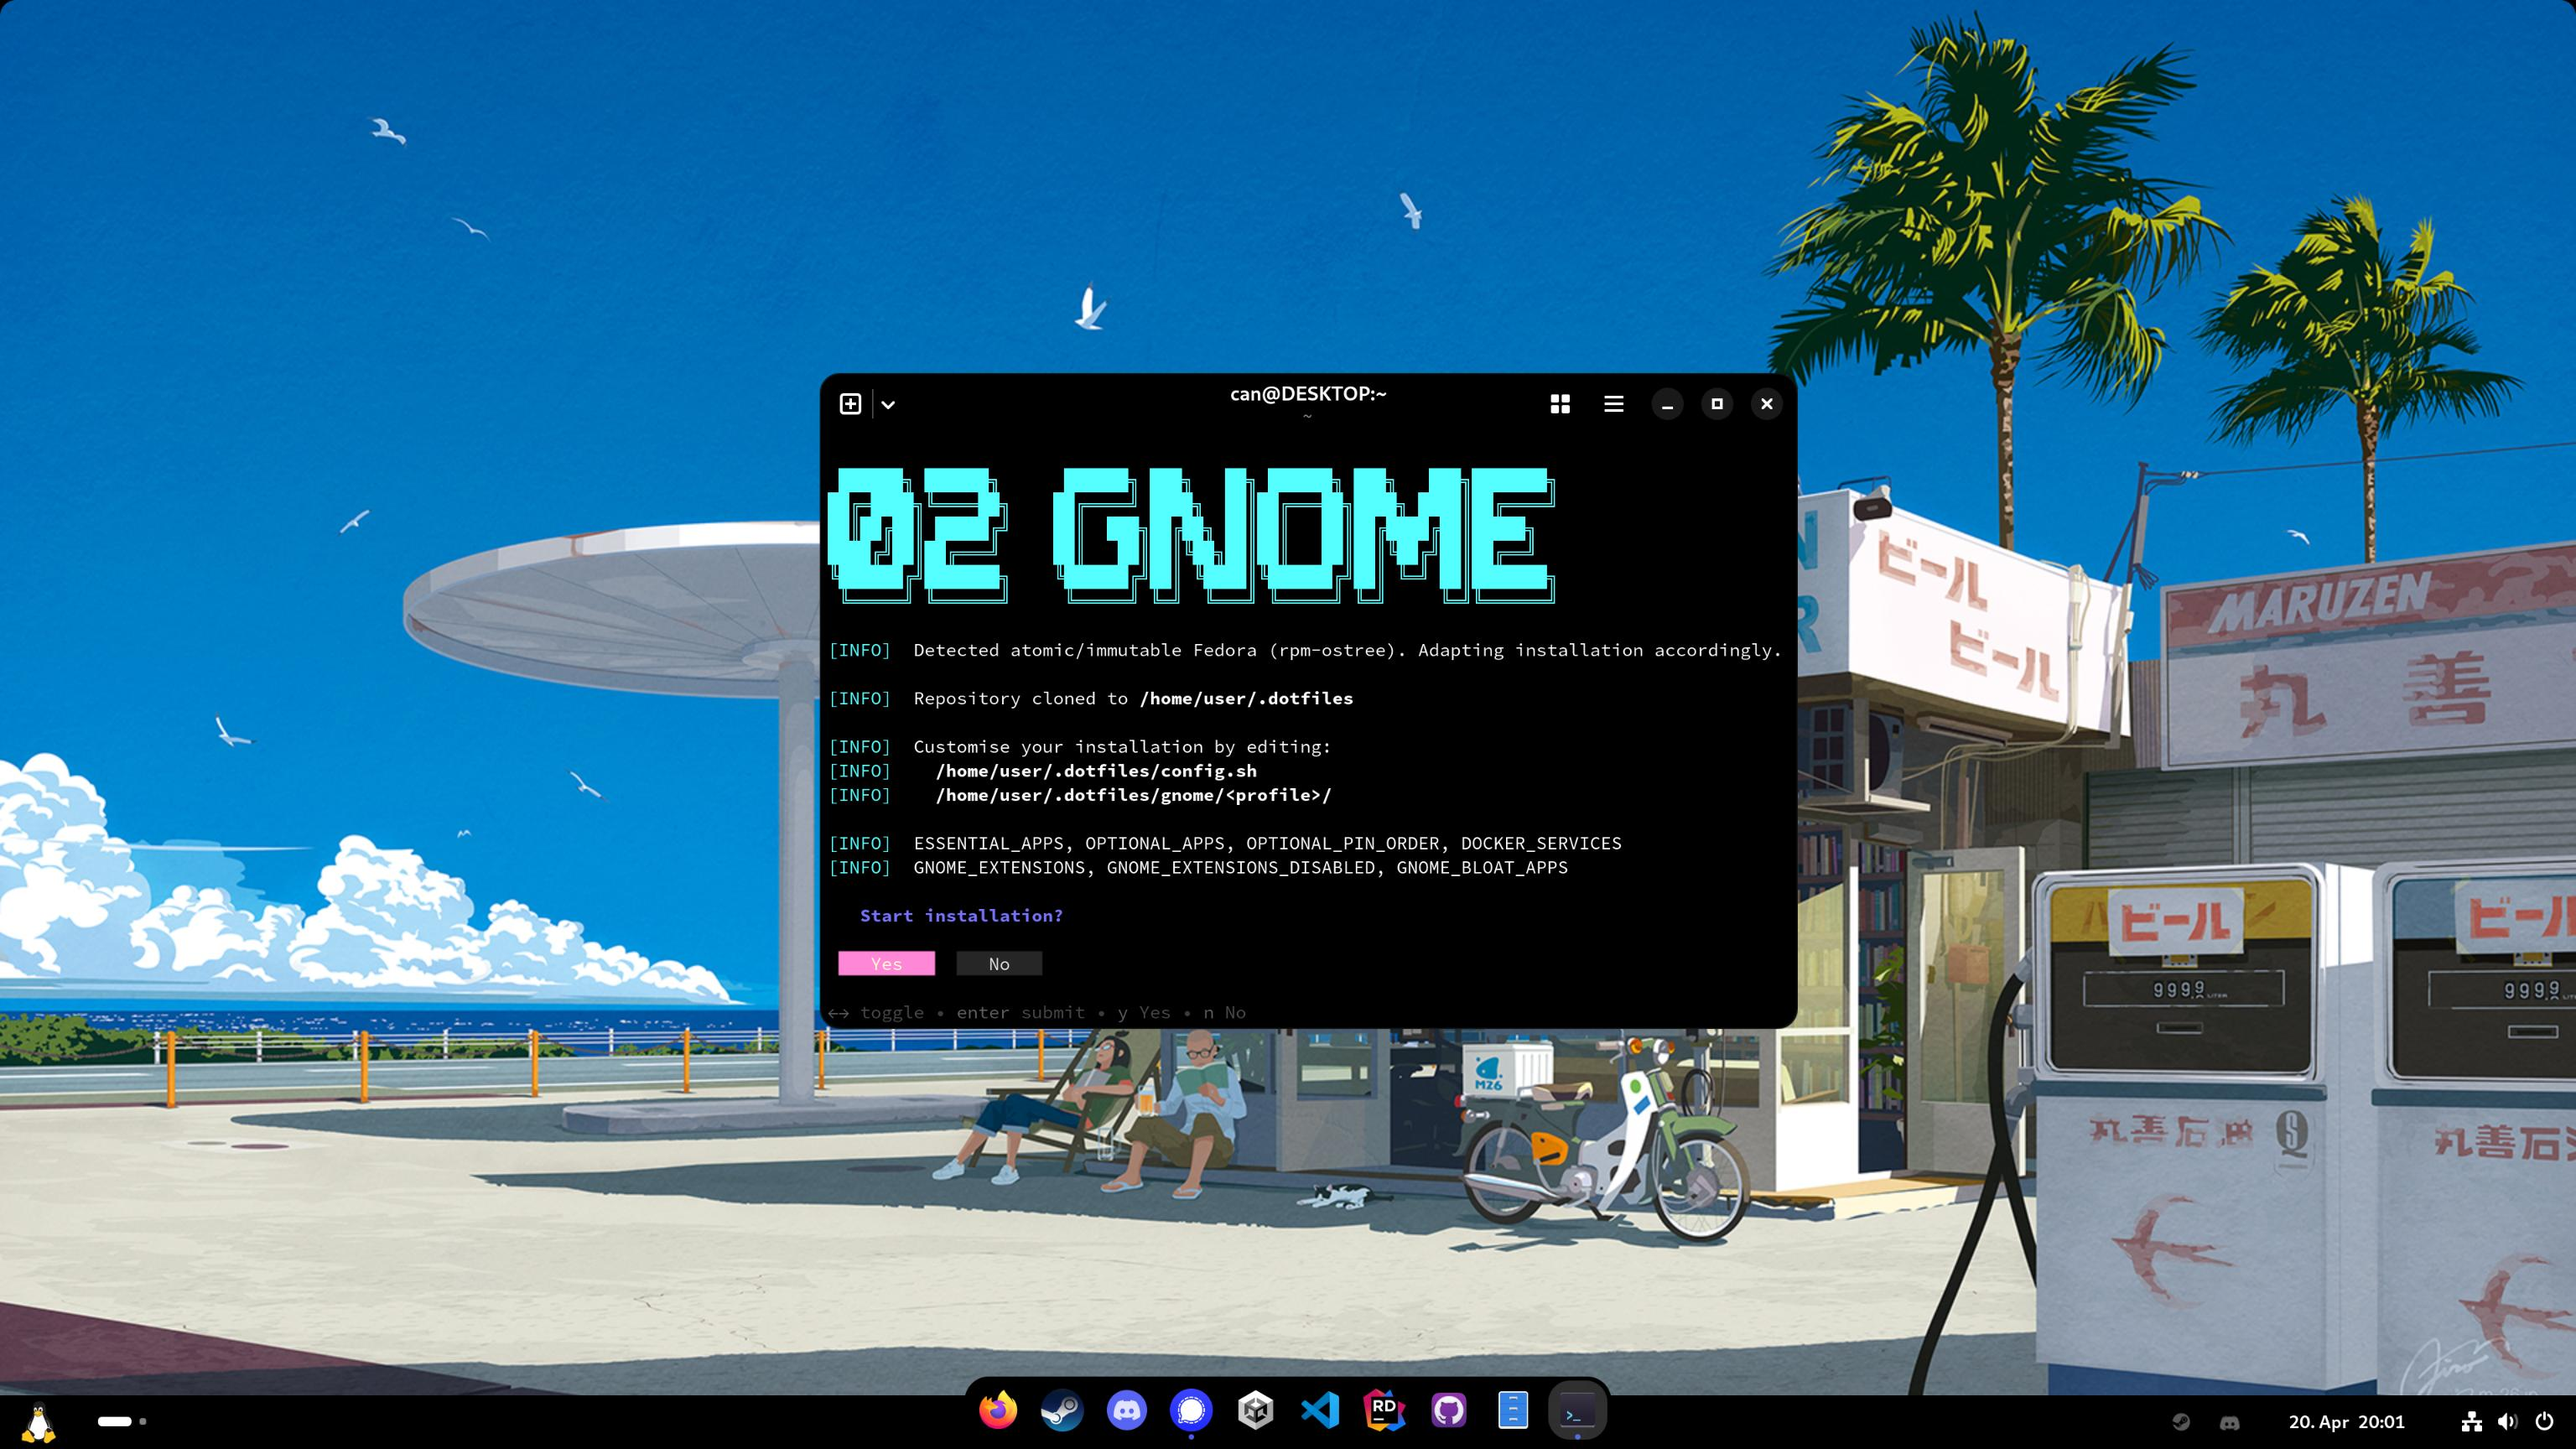
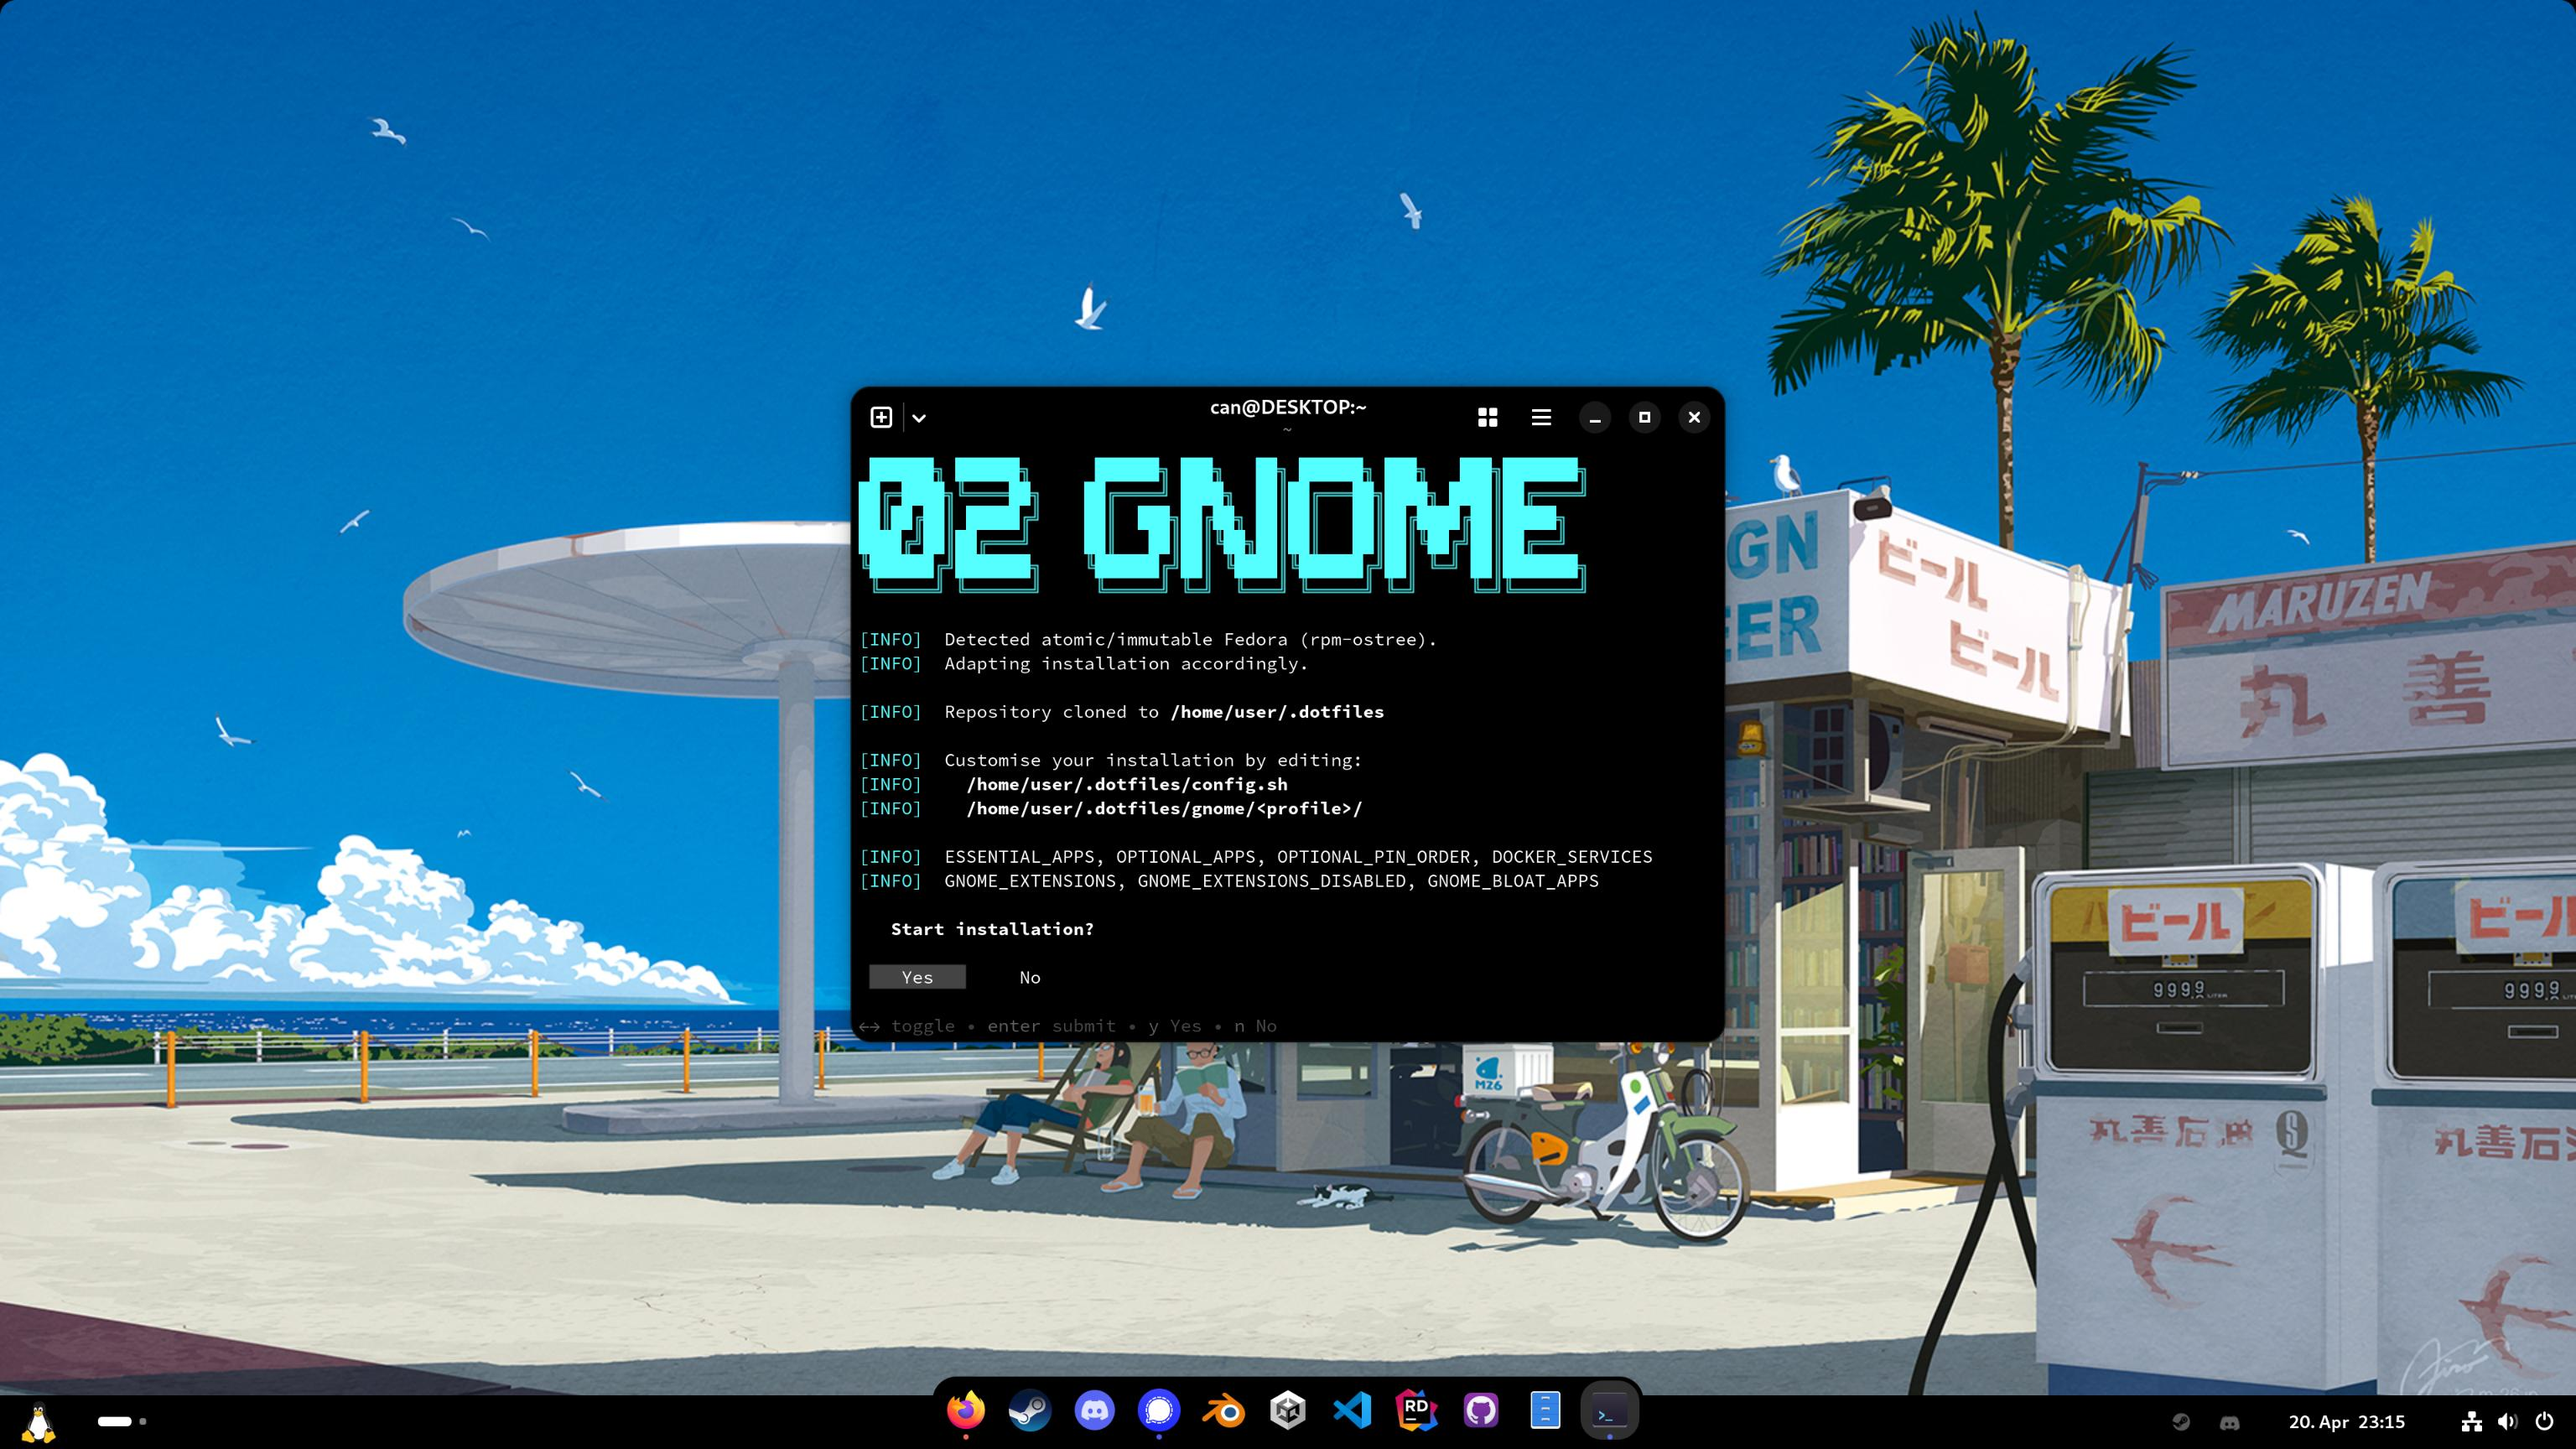
fix: improve informational messages for better clarity and user guidance

Changed region(s): [[0.3125, 0.25, 0.7188, 0.7188], [0.3438, 0.9375, 0.6562, 1.0]]

diff --git a/README.md b/README.md
@@ -133,7 +133,7 @@ RPM removal runs a **dry-run first** - if removing a package would cascade into 
 
 | Extension | UUID |
 |---|---|
-| AppIndicator & KStatusNotifierItem | `appindicatorsupport@rgcjonas.gmail.com` |
+| AppIndicator | `appindicatorsupport@rgcjonas.gmail.com` |
 | ArcMenu | `arcmenu@arcmenu.com` |
 | Clipboard History | `clipboard-history@alexsaveau.dev` |
 | Dash to Dock | `dash-to-dock@micxgx.gmail.com` |
